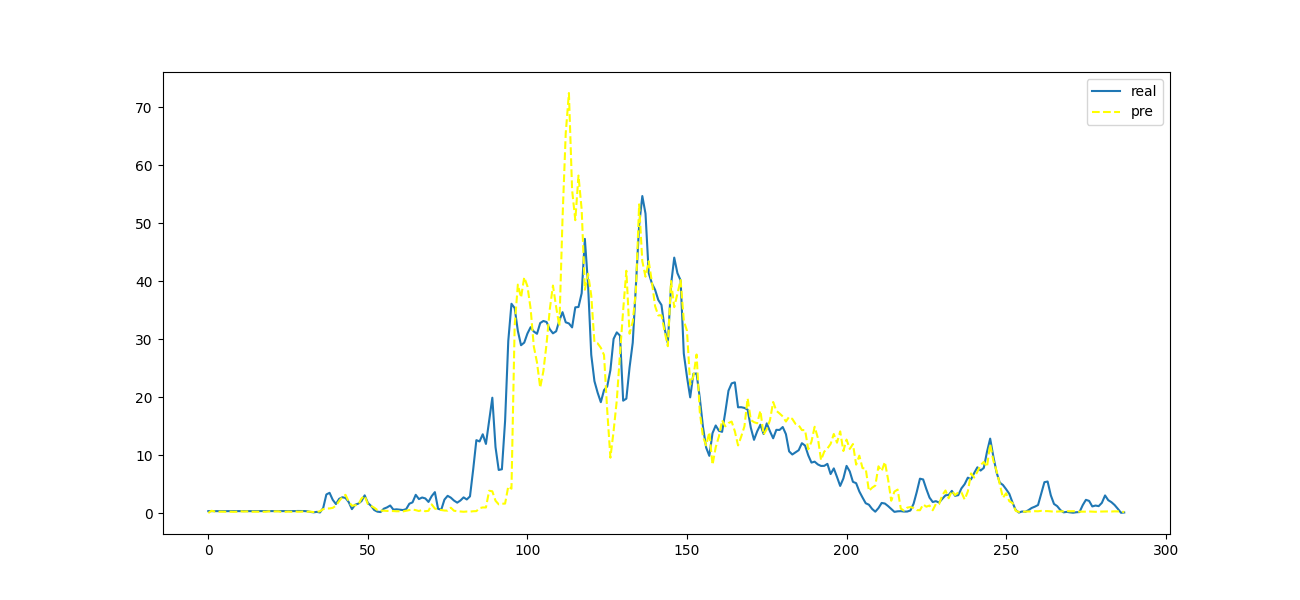
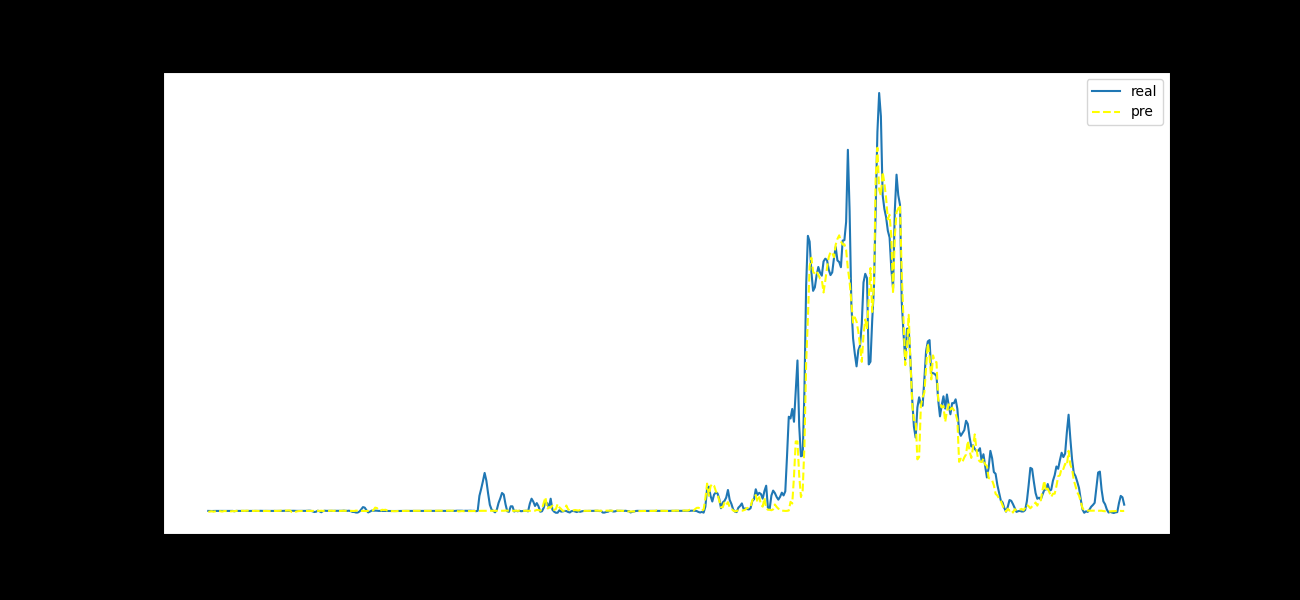
test on more data and the reuslt is really good -> the model is quite good and clear, there is no need for us to do something more

diff --git a/data/TestDataLoader.py b/data/TestDataLoader.py
@@ -51,7 +51,7 @@ class Seq2seq_value(Dataset):
         self.data = data
         self.T0 = T0
         self.tau = tau
-        self.index_seq2seq = ['wind10','angle10']
+        self.index_seq2seq = ['wind10', 'temp', 'atmosphere', 'humidity', 'en_month','en_hour', 'en_cos_angle']
 
     def __len__(self):
         return len(self.data)-(self.T0+self.tau)
@@ -63,12 +63,14 @@ class Seq2seq_value(Dataset):
 
         return torch.tensor(en_x.values).to(torch.float32),torch.tensor(en_x_pre.values).to(torch.float32), torch.tensor(y.values).to(torch.float32)
 
+#this might not be very sueful
 class Seq2seq_value_moredata(Dataset):
     def __init__(self, data,T0,tau):
         self.data = data
         self.T0 = T0
         self.tau = tau
-        self.index_seq2seq = ['wind10','angle10']
+        # ['wind10', 'temp', 'atmosphere', 'humidity', 'power', 'en_month','en_hour', 'en_cos_angle']
+        self.index_seq2seq = ['wind10', 'temp', 'atmosphere', 'humidity', 'en_month','en_hour', 'en_cos_angle']
 
     def __len__(self):
         return len(self.data)-(self.T0+self.tau)
@@ -96,7 +98,7 @@ class DatasetShow(Dataset):
     def __getitem__(self, index):
         # index_en_x = [index * self.tau, index * self.tau+self.T0-1]
         # index_en_x_pre = [index * self.tau+self.T0, index * self.tau+self.T0+self.tau-1]
-        column_x = ['wind10','angle10']
+        column_x = ['wind10', 'temp', 'atmosphere', 'humidity', 'en_month','en_hour', 'en_cos_angle']
         en_x = self.data.loc[self.index_begin+index * self.tau: self.index_begin+index * self.tau+self.T0-1,column_x] #
         en_x_pre = self.data.loc[self.index_begin+index * self.tau++self.T0: self.index_begin+index * self.tau + self.T0+self.tau - 1,column_x]
         y = self.data.loc[self.index_begin+index * self.tau+self.T0 : self.index_begin+index * self.tau + self.T0+self.tau - 1, 'power']

diff --git a/train.py b/train.py
@@ -2,12 +2,14 @@ from Models.Seq2seq import trainer_seq2seq
 from config import *
 import time
 if __name__ == '__main__':
-
-    mytrainer = trainer_seq2seq(learning_rate= 0.0005)
-    mytrainer.load(name = 'seq2seq_value_best_5_27')
-    # mytrainer.train(epoch= 10,early_stop_patience= 4)
-    # mytrainer.save(name = 'seq2seq_test')
-    mytrainer.show(index_begin= 350,index_end= 600) #终于match上了，但是感觉效果还是不是特别好（对数据中心laod一下啦）
-    #record
+    # ['wind10', 'temp', 'atmosphere', 'humidity', 'power', 'en_month','en_hour', 'en_cos_angle']
+    # 我们只修改了很少的结果，看看效果如何。。
+    mytrainer = trainer_seq2seq(learning_rate= 0.0004)
+    mytrainer.load(name = 'seq2seq_MoreData_3_22')
+    # mytrainer.train(epoch= 10,early_stop_patience= 2)
+    # mytrainer.save(name = 'seq2seq_MoreData_test')
+    mytrainer.show(index_begin= 100,index_end= 600)
+    #终于match上了，但是感觉效果还是不是特别好（对数据中心laod一下啦）
+    #无状态模型
     # the best loss is just about 5.4558 still a little high.
     # we can use the remote computer, this is fantastic

diff --git a/Models/Seq2seq.py b/Models/Seq2seq.py
@@ -9,6 +9,8 @@ from Models.models import Encoder, Decoder, Seq2Seq, EarlyStopping
 
 from utils.tools import set_seed,Loss_value
 
+# ['wind10', 'temp', 'atmosphere', 'humidity', 'power', 'en_month','en_hour', 'en_cos_angle']
+
 class Seq2seq(nn.Module):
     def __init__(self):
         super().__init__()
@@ -17,8 +19,8 @@ class Seq2seq(nn.Module):
         self.tau =tau
         self.batch = batch_size
         self.hidden_size = hidden_size
-        self.input_size = 2 #就是输入dim = -1的size 这里我们采用 wind10 angle10来计算
-        self.output_size = 2
+        self.input_size = 7 #就是输入dim = -1的size 这里我们采用 wind10 angle10来计算
+        self.output_size = 7 #这个好像也是同样的输入
         # model
         self.encoder = Encoder(self.input_size,self.hidden_size)
         self.decoder = Decoder(self.hidden_size,self.output_size) #长度在这里是无关的

diff --git a/config.py b/config.py
@@ -1,5 +1,5 @@
 
-data_path = 'data/clean_big_data.csv'
+data_path = 'data/clean_data_20000.csv' #注意去掉末尾的 ‘.csv’
 index_wind = ['wind10', 'wind30', 'wind50']
 index_other = ['angle10', 'angle30', 'angle50', 'temp', 'atmosphere', 'humidity']
 T0 = 48
